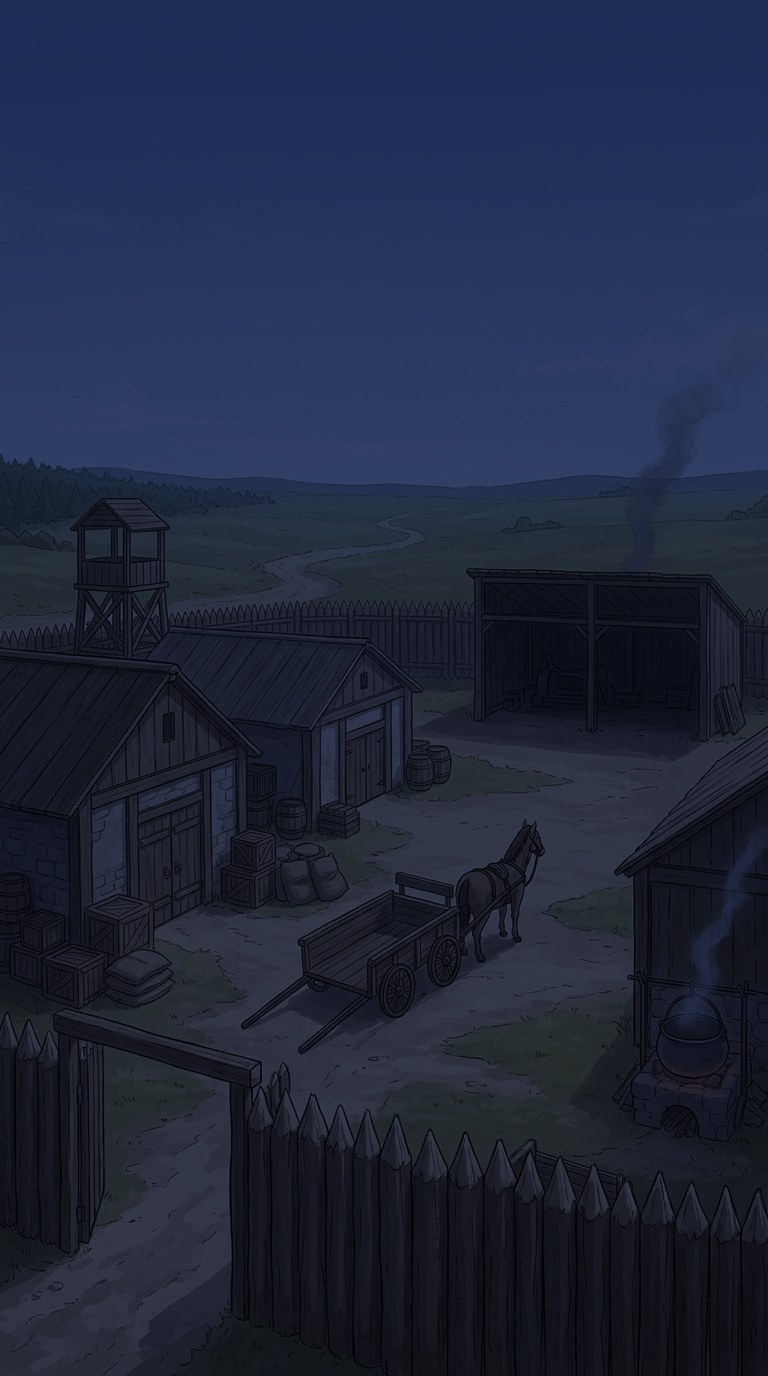
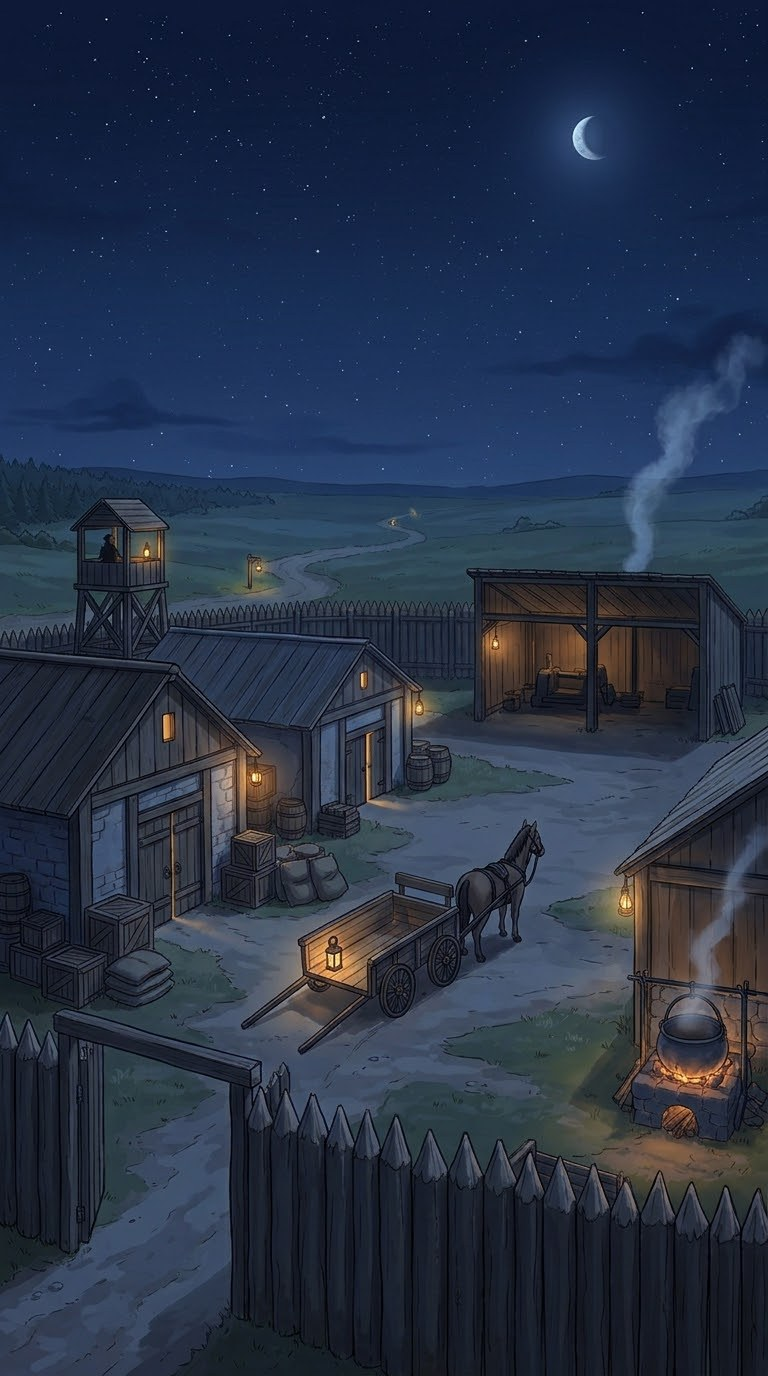
第4話：補給基地（夜）の背景を差し替え、ニーナの夜の見張りの場面を台本に追加
Claude-Session: https://claude.ai/code/session_01AR1wXjuAR5sE8Te44vnUbP

diff --git a/docs/scenario/empire-04.md b/docs/scenario/empire-04.md
@@ -50,7 +50,7 @@
 
 ## 西の街道（夜）
 
-> （背景：補給基地（夜））
+> （背景：夜の街道）
 > 夜の街道を、えんじ色の機兵の列が南へ進む。
 
 **男爵家の騎士**「ヨハン様。その機体の紋章、新しく描き直されたのですね。」
@@ -59,6 +59,18 @@
 **ヨハン**「だが、この戦で手柄を立てれば、叔父上も私を認めてくださる。母上にも、胸を張って帰れる。」
 **男爵家の騎士**「……はっ。」
 **ヨハン**「行くぞ。夜明けとともに、基地を焼く。」
+
+## 第七補給基地（夜）
+
+> （背景：補給基地（夜））
+> 同じ夜。補給基地の物見やぐらに、小さな明かりが一つ灯っていた。
+
+**補給兵**「少尉どの、まだ起きておいでで。見張りは交代しますぜ。」
+**ニーナ**「もう少しだけ。……西の街道の向こうで、さっきから鳥が鳴きやんでいます。」
+**補給兵**「鳥、ですかい。」
+**ニーナ**「夜の鳥は、大きなものが通ると黙ります。……念のため、私の機体に火を入れておいてください。」
+**補給兵**「へ、へい！」
+**ニーナ**「（……静かな仕事には、なりそうにありませんね）」
 
 ## 討伐軍の野営地
 
@@ -258,6 +270,6 @@
 絵の指示文は `docs/prompts/empire-04-chara.md`・`-robo.md`・`-bg.md`。
 - 顔グラ：ニーナ。
 - 機体：ゼクト・シュッツェ（ニーナの狙撃機。ゼクトの兵装違い。長い狙撃銃と照準用の単眼の追加スコープ（顔の単眼とは別に、肩から伸びる照準器）。伏せ撃ちの支え脚）、ゼクト・エーレ（ヨハン機。男爵家の騎士のゼクトに、金の縁取りと大きな分家の紋章を描き足した、見栄えだけ立派な機体。マントか房飾り）。ゲームではヨハン機は、ゼクトの絵に色を重ねるだけで済ませることもできる。
-- 会話の背景：補給基地（昼）。夜の場面は同じ絵を暗くして使う。
+- 会話の背景：補給基地（昼）`depot.jpg`、補給基地（夜）`depot_night.jpg`（どちらもできた）、夜の街道（指示文あり。なければ補給基地（夜）で代用せず、無地にする）。
 - マップ：基地は今の砦のタイルで足りる。
 - 戦闘の背景：基地で戦うときは今の砦の背景、ほかは平地と森。

diff --git a/docs/prompts/empire-04-bg.md b/docs/prompts/empire-04-bg.md
@@ -1,6 +1,6 @@
 # 帝国編 第4話「後方の狙撃手」 背景の指示文
 
-> できあがり：`docs/ref/bg-depot.jpg` → `assets/bg/depot.jpg`（使う）。夜の場面用に、暗く青くした `assets/bg/depot_night.jpg` も作った
+> できあがり：`docs/ref/bg-depot.jpg` → `assets/bg/depot.jpg`（使う）。補給基地（夜）は別に描いてもらった `docs/ref/bg-depot-night.jpg` → `assets/bg/depot_night.jpg`（使う。台本に、ニーナが夜の見張りで異変に気づく場面を足した）
 
 添付：`assets/bg/ford.jpg`・`assets/bg/manor.jpg`（会話の背景画。絵柄をそろえるため）
 会話の背景画は抜かずにそのまま使う。縦長（9:16、スマートフォンの縦画面向け）。
